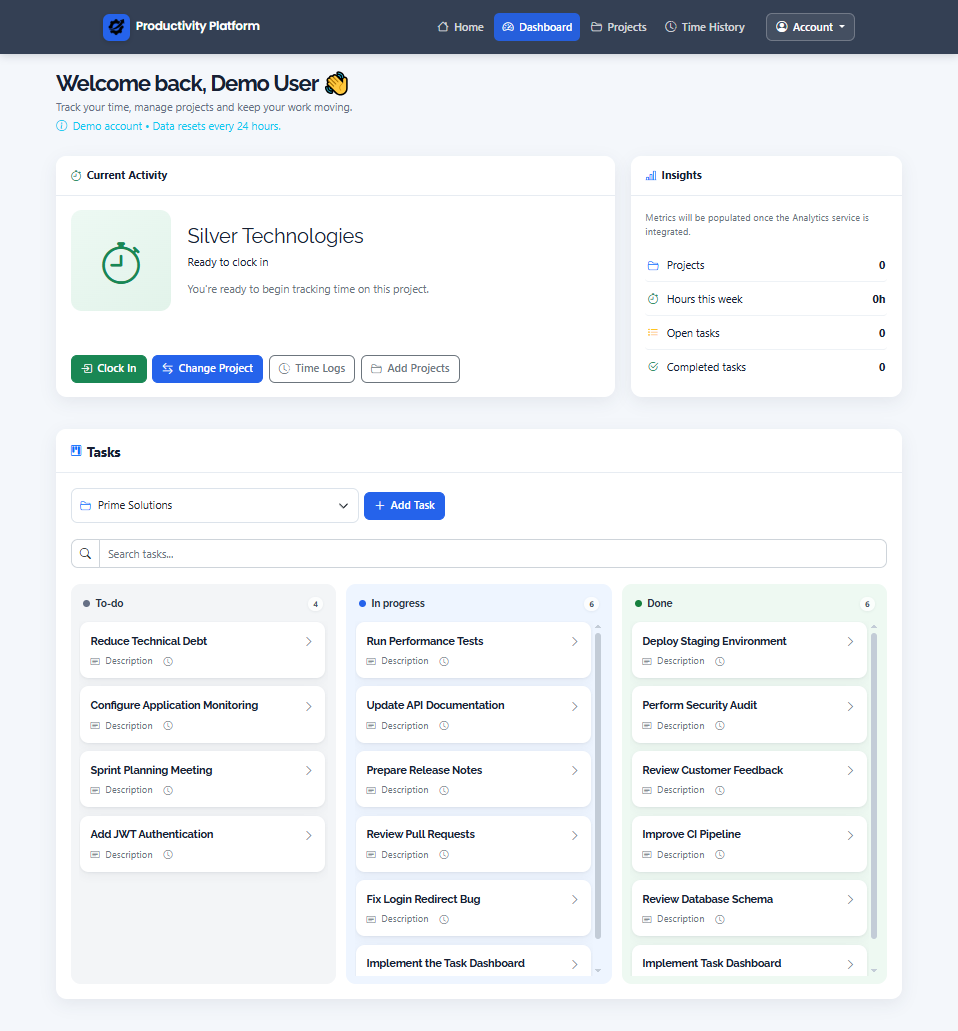
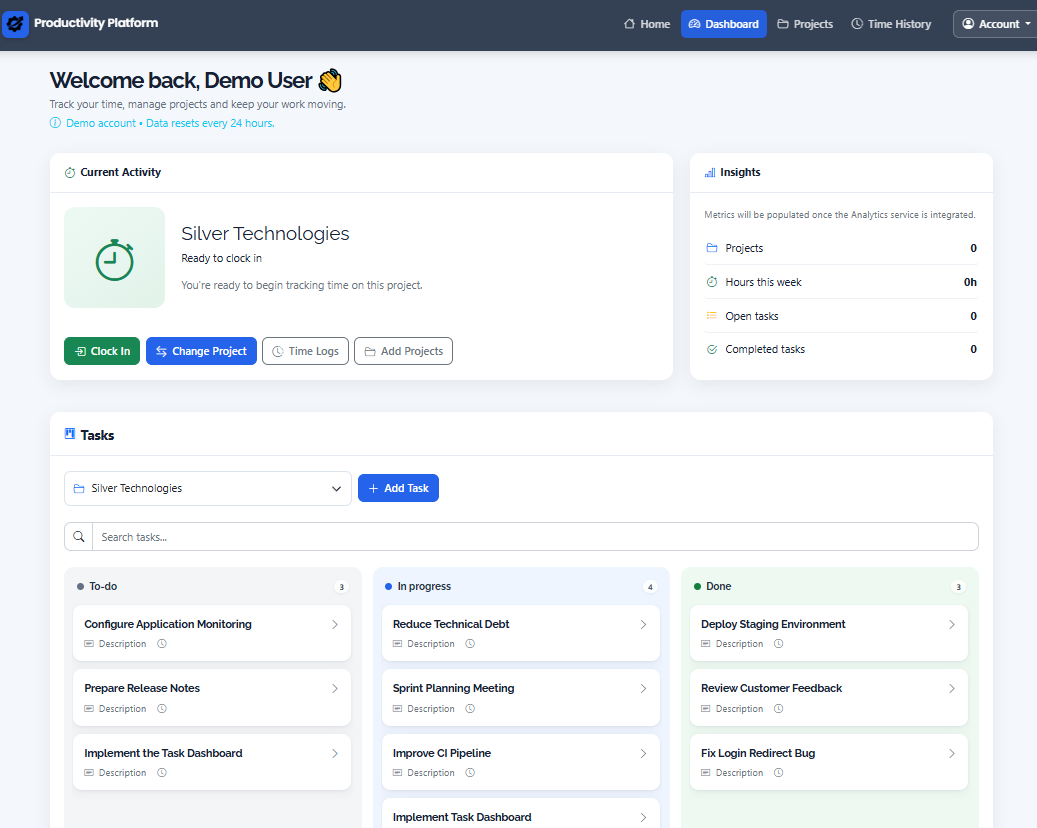
Update main page readme.md

diff --git a/README.md b/README.md
@@ -26,6 +26,26 @@ You can create an account or use the demo login:
 
 > Email: demo@example.com<br>
 > Password: demo12345<br>
+---
+
+## 💡 Highlights
+
+- Django Backend-for-Frontend (BFF)
+- Three independent Flask microservices
+- PostgreSQL database per service
+- Docker Compose development environment
+- AWS EC2 deployment
+- GitHub Actions CI/CD
+- OpenAPI documentation
+- Comprehensive automated test suite
+
+---
+
+## 🖼 Application Screenshot
+
+<p align="center">
+    <img src="docs\images\dashboard_screenshot.png" width="800">
+</p>
 
 ---
 
@@ -56,18 +76,38 @@ This project was built to demonstrate:
 
 ---
 
+## 📈 System Architecture
+
+A core focus of this project was designing clear service boundaries while maintaining a simple local development workflow. The platform is structured as independent backend services:
+
+<p align="center">
+  <img src="services\web\static\images\architecture.png" width="1000">
+</p>
+
+This architecture provides:
+
+- Separation of business domains
+- Independent database ownership and migrations
+- Isolated API logic and responsibilities
+- Improved maintainability and scalability
+- Containerised local development using Docker Compose
+
+The Django application acts as the primary Backend-for-Frontend (BFF) layer, while Flask services handle domain-specific functionality such as project management and time tracking.
+
+[See the full architecture document](docs/architecture.md)
+
+---
+
 ## 🔑 Key Features
 
-- Django Backend-for-Frontend (BFF) web service
-- Independent Flask microservices
-- Project management API
-- Time-tracking API
-- PostgreSQL-backed services
-- Per-service OpenAPI / Swagger documentation
-- Docker Compose development environment
-- Independent service migrations
-- Local admin tooling
-- Automated testing and linting workflows
+- User registration and authentication
+- Project management
+- Kanban task management
+- Time tracking with live session timer
+- Dashboard with project insights
+- OpenAPI documentation for every service
+- Admin interface for user management
+- Responsive web interface
 
 ---
 
@@ -96,47 +136,6 @@ This project was built to demonstrate:
 - Kanban-based project management
     - [Project board: Planning](https://github.com/users/xMattC/projects/4/views/1)
     - [Project board: Tasks](https://github.com/users/xMattC/projects/4/views/7)
-
----
-## 📈 Service Architecture
-
-A core focus of this project was designing clear service boundaries while maintaining a simple local development workflow. The platform is structured as independent backend services:
-
-<p align="center">
-  <img src="services\web\static\images\architecture.png" width="1000">
-</p>
-
-This architecture provides:
-
-- Separation of business domains
-- Independent database ownership and migrations
-- Isolated API logic and responsibilities
-- Improved maintainability and scalability
-- Containerised local development using Docker Compose
-
-The Django application acts as the primary Backend-for-Frontend (BFF) layer, while Flask services handle domain-specific functionality such as project management and time tracking.
-
-[See the full architecture document](docs/architecture.md)
-
----
-
-## 🖼 Application Screenshots
-
-### Django Web Service
-
-The Django web application acts as the primary Backend-for-Frontend (BFF) layer for the platform.
-
-Features demonstrated include:
-
-- User authentication and session management
-- Project management workflows
-- Integration with downstream Flask services
-- User-scoped application behaviour
-
-<p align="center">
-    <img src="docs\images\dashboard_screenshot.png" width="1000">
-</p>
-
 
 ---
 
